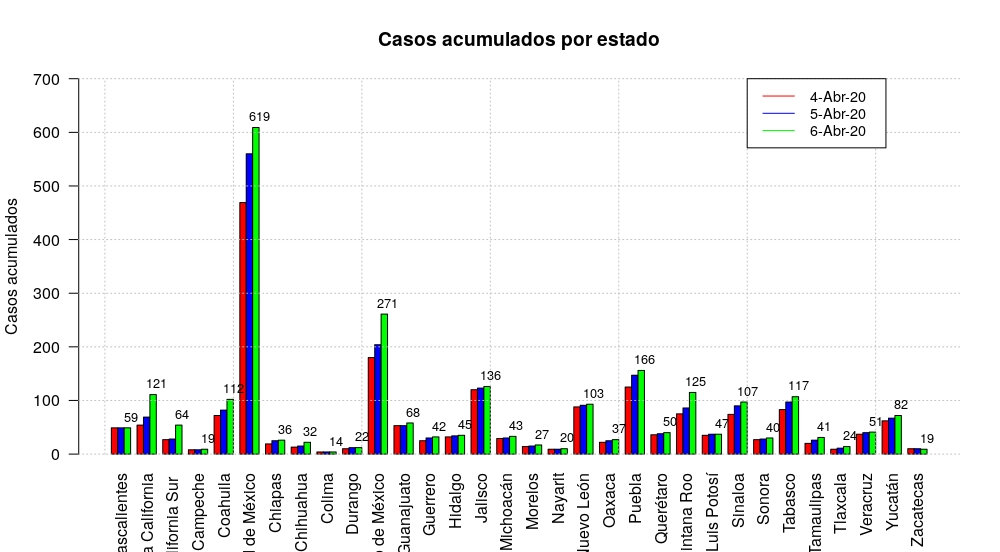
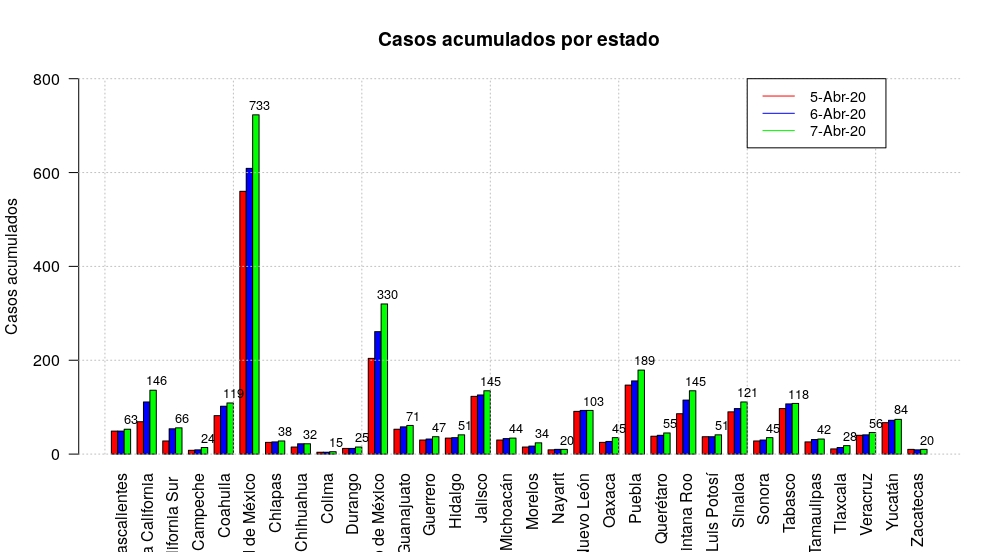
Update plots and data to 7 April.

diff --git a/README.md b/README.md
@@ -3,11 +3,11 @@ Repositorio de vizualización de datos diarios en relación a COVID19, en Mexico
 
 Datos obtenidos de [Comunicado Técnico Diario Oficial Mexico](http://www.gob.mx/salud/documentos/coronavirus-covid-19-comunicado-tecnico-diario-238449)
 
-# Casos acumulados por estado en los tres últimos días (Actualizado 6 Abril)
+# Casos acumulados por estado en los tres últimos días (Actualizado 7 Abril)
 ![](https://github.com/edgarVazquez43/MexCovid19/blob/master/imgs/casos_acumulados_estados.jpeg "Logo Title Text 2")
 
-# Casos acumulados en total en el país  (Actualizado 6 Abril)
+# Casos acumulados en total en el país  (Actualizado 7 Abril)
 ![](https://github.com/edgarVazquez43/MexCovid19/blob/master/imgs/casos_acumulados_total.jpeg "Logo Title Text 2")
 
-# Casos nuevos registrados por día (Actualizado 6 Abril)
+# Casos nuevos registrados por día (Actualizado 7 Abril)
 ![](https://github.com/edgarVazquez43/MexCovid19/blob/master/imgs/casos_nuevos_dia.jpeg "Logo Title Text 2")
